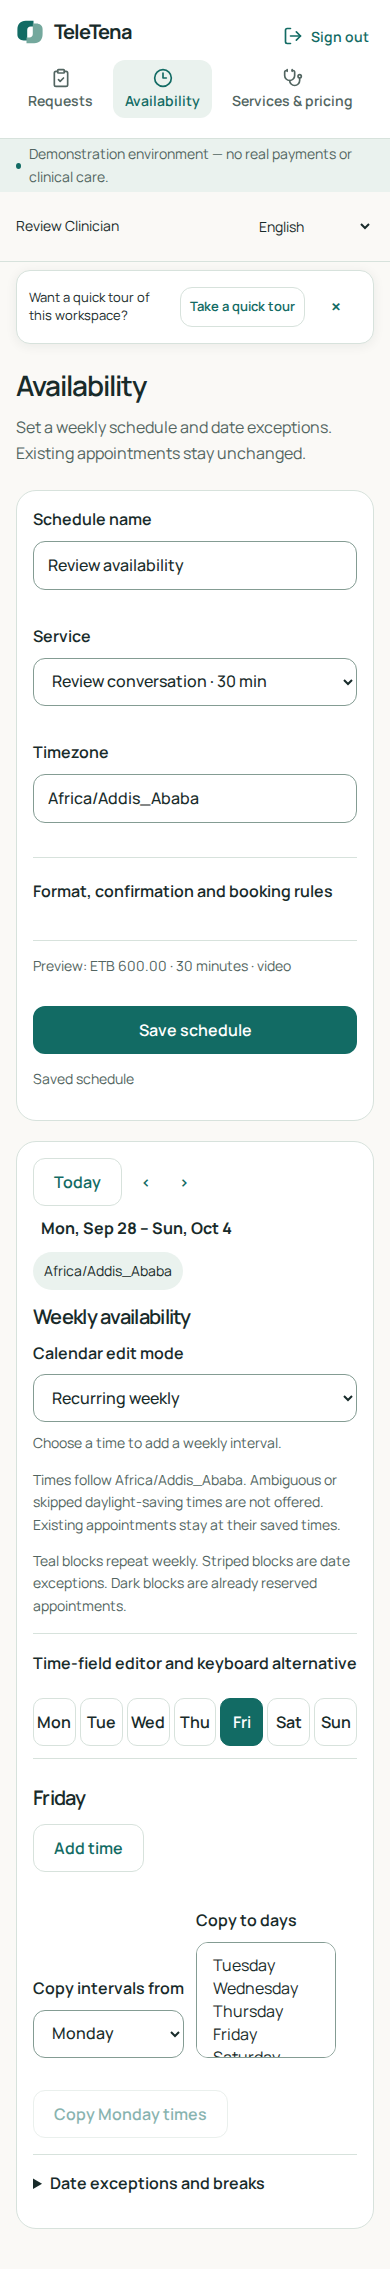
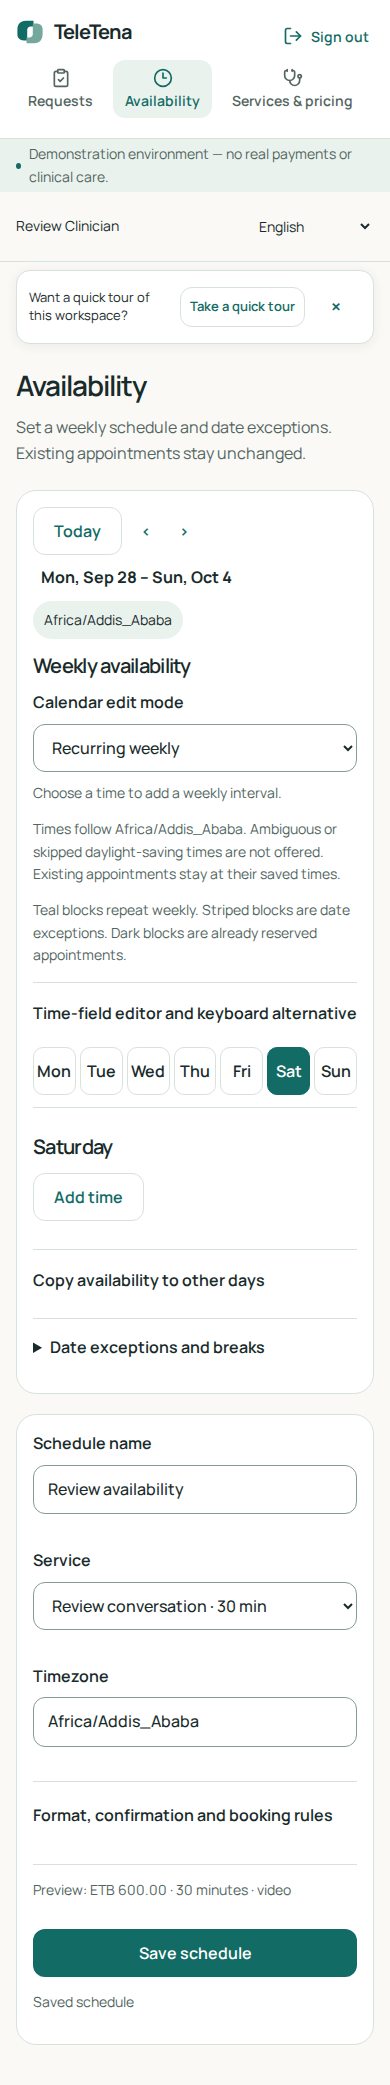
docs(review): record preview and availability evidence

diff --git a/docs/presentation-readiness-verification.md b/docs/presentation-readiness-verification.md
@@ -1,5 +1,94 @@
 # Presentation release verification
 
+## PR #12 local preview checkpoint (2026-10-03)
+
+The currently running review preview is the built Frappe application at
+`http://127.0.0.1:8017/teletena/` (availability:
+`http://127.0.0.1:8017/teletena/clinician/availability`). It is served by
+`/home/frappe/teletena-compat/bench`, site
+`tele-tena-pr2-test.localhost`, from branch `feat/next-design-update`, code
+commit `cc30d7e3622c470a2d4f779ed0bbc04dfa400600`. The packaged bundle reports
+the same source commit. This is a production build behind the local Frappe
+route, not Vite. The original bench at port 8000 and its Vite preview at 5173
+were not stopped or migrated; their checkout is the older deployment branch.
+
+Availability was exercised through this built `/teletena/` route: the approved
+synthetic clinician opened the calendar, an end-before-start interval showed a
+field-level message while preserving the input, a valid weekly schedule saved
+with HTTP 200, survived reload, and generated a patient-bookable slot. A
+separate calendar browser regression covers date-only editing and copying
+intervals. The root cause evidenced by the browser payload and server contract
+was the editor sending `start_local`/`end_local` while the prior API validator
+only read `start`/`end`; the compatibility mapping accepts the documented
+fields without reducing validation or authorization. The server route returned
+200 with `Cache-Control: no-store, private`. The generated bundle was scanned
+for secrets; none were found.
+
+The migration of the retained synthetic compatibility site ran v1.8. It
+imported exactly 15 legacy activity rows posted after opening snapshots (10
+deposits and five reservations), without deleting or rewriting those rows,
+appointments, reservations or wallet projections. Wallet and subledger
+projections now reconcile. This identifies the missing journal rows, but not
+which process originally wrote the legacy events. The cutover runbook requires
+stopping every old writer before activating the new schema/code.
+
+Current-branch reruns: presentation regressions **13 passed**; production build
+**passed**; lint **passed with existing warnings**; Python compile and browser
+script syntax checks **passed**. The first integration rerun was deliberately
+stopped as a meaningful verification result: it targeted the invited-review
+site with phone/registration disabled and the default HTTP fixture at Vite
+port 5173. The auth/HTTP failures reflect that fixture mismatch; they do not
+establish a code regression or a pass. A separate enabled-registration fixture
+and a separate invited-review browser check remain required. The fresh v1.8
+installation check is pending because this environment requires an operator's
+interactive sudo step to create a temporary database credential. The hosted
+LiveKit rerun stopped before connecting because this isolated site has no
+LiveKit project configuration. Prior Cloud evidence is retained above; no new
+Cloud claim is made for this checkpoint.
+
+The calendar has a time-labelled weekly grid, click-to-add interval editor,
+keyboard time fields, a compact editor, weekly/date-only modes, copy-to-days,
+exceptions, and a mobile agenda presentation. A shareable per-offering booking
+link is now implemented as a site-key HMAC token. It is offered only to the
+approved clinician who owns a published offering, resolves only while that
+offering/schedule/scope remain published, and is followed by the authenticated
+patient booking flow. URLs contain no internal offering ID; focused tests cover
+owner, patient/guest roles, revocation, token resolution and private-data
+omissions. A built-browser regression now follows the shared link through
+patient sign-in and booking; it will be rerun after the current bundle is
+repackaged.
+
+The wider route-by-route visual review and screenshot matrix requested for this
+release are not complete. Refreshed availability screenshots cover 320, 390,
+768 and 1440 px. A rendered review exposed clipped labels in compact booked
+blocks; the UI now shows the permitted alias on short blocks and ellipsizes it
+with the complete accessible name available. The browser regression asserts
+that short blocks omit clipped secondary detail. Other inventory entries still
+need current-branch captures and inspection.
+
+The latest disposable installation created Frappe, ERPNext and TeleTena and
+passed its schema/role/patch-log/guest-denial assertions, including v1.8. Its
+combined browser run stopped at a test assertion that expected the Vite root
+manifest path while the built Frappe app correctly used
+`/assets/tele_tena/review/manifest.webmanifest`. The assertion now accepts both
+supported packaging paths; this full fresh install/browser run has not yet been
+repeated. Cleanup succeeded, including removal of the disposable database,
+site, temporary DB administrator and credential file.
+
+One repeated availability browser attempt correctly failed with “Insufficient
+simulated funds”: its mode-600 synthetic patient had already spent ETB 600 from
+its original ETB 1,000 on a previous successful run. The failed retry made no
+booking. A newly generated synthetic patient with its own ETB 1,000 completed
+the built save/reload/booking journey. The regression runner now creates a
+fresh synthetic patient for every run and uses a private, exclusive fixture
+file; no existing balance was altered.
+
+At the start of the next clean build, the packaged app source SHA was
+`c3abaff0aee7ce490b23675a2554466bb620f47f`. Subsequent booking-link source and
+browser-fixture changes have not yet been packaged or served. Do not treat the
+currently running preview as containing those later edits until the process and
+bundle source SHA are checked again.
+
 ## Update for `feat/next-design-update` (2026-10-02)
 
 This section supersedes the earlier PR #7 snapshot where it conflicts with the
